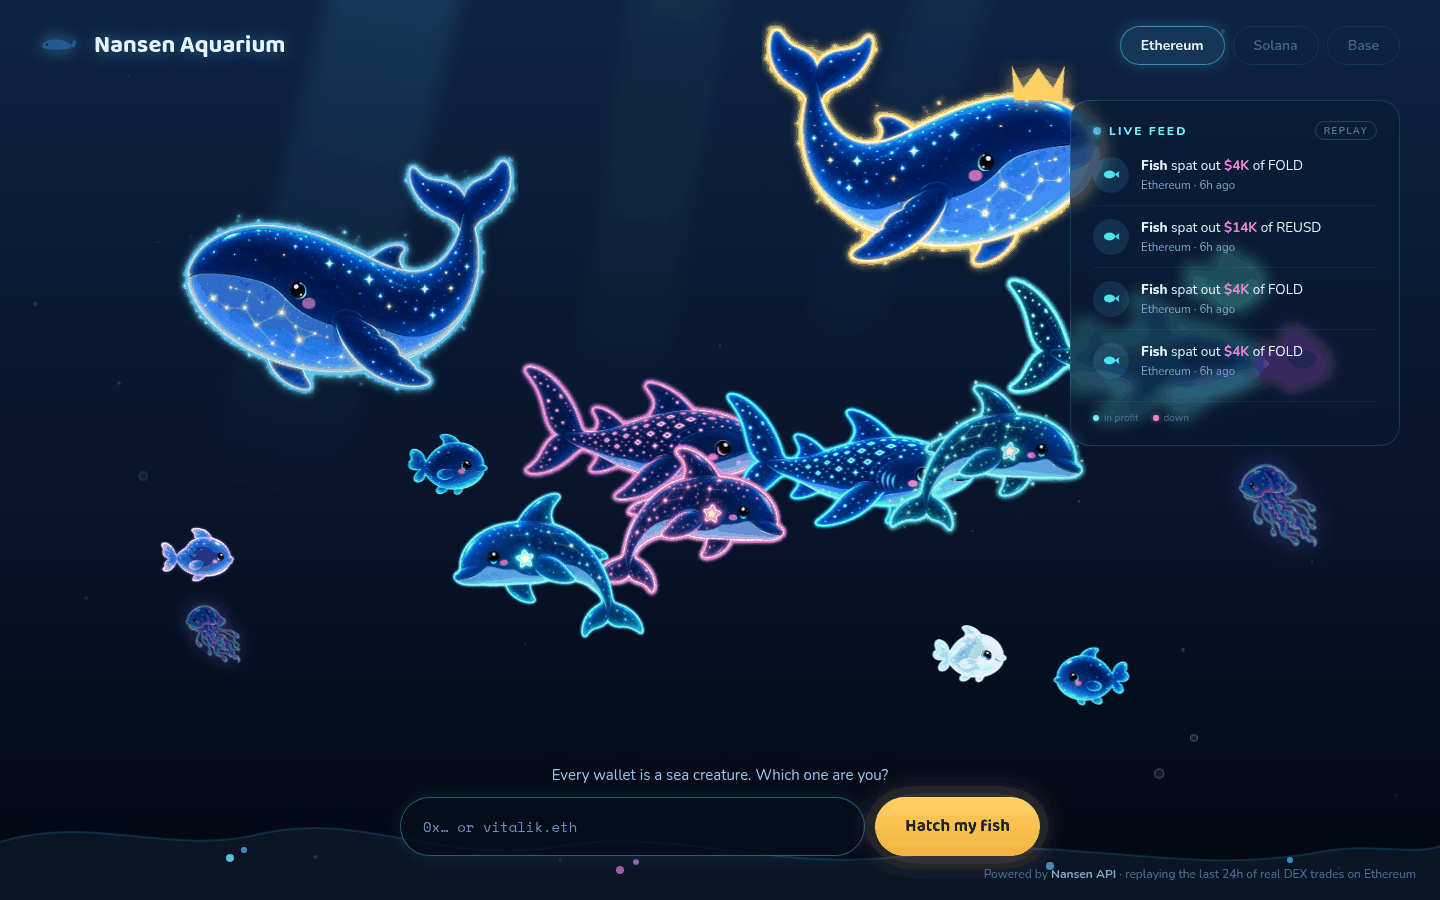
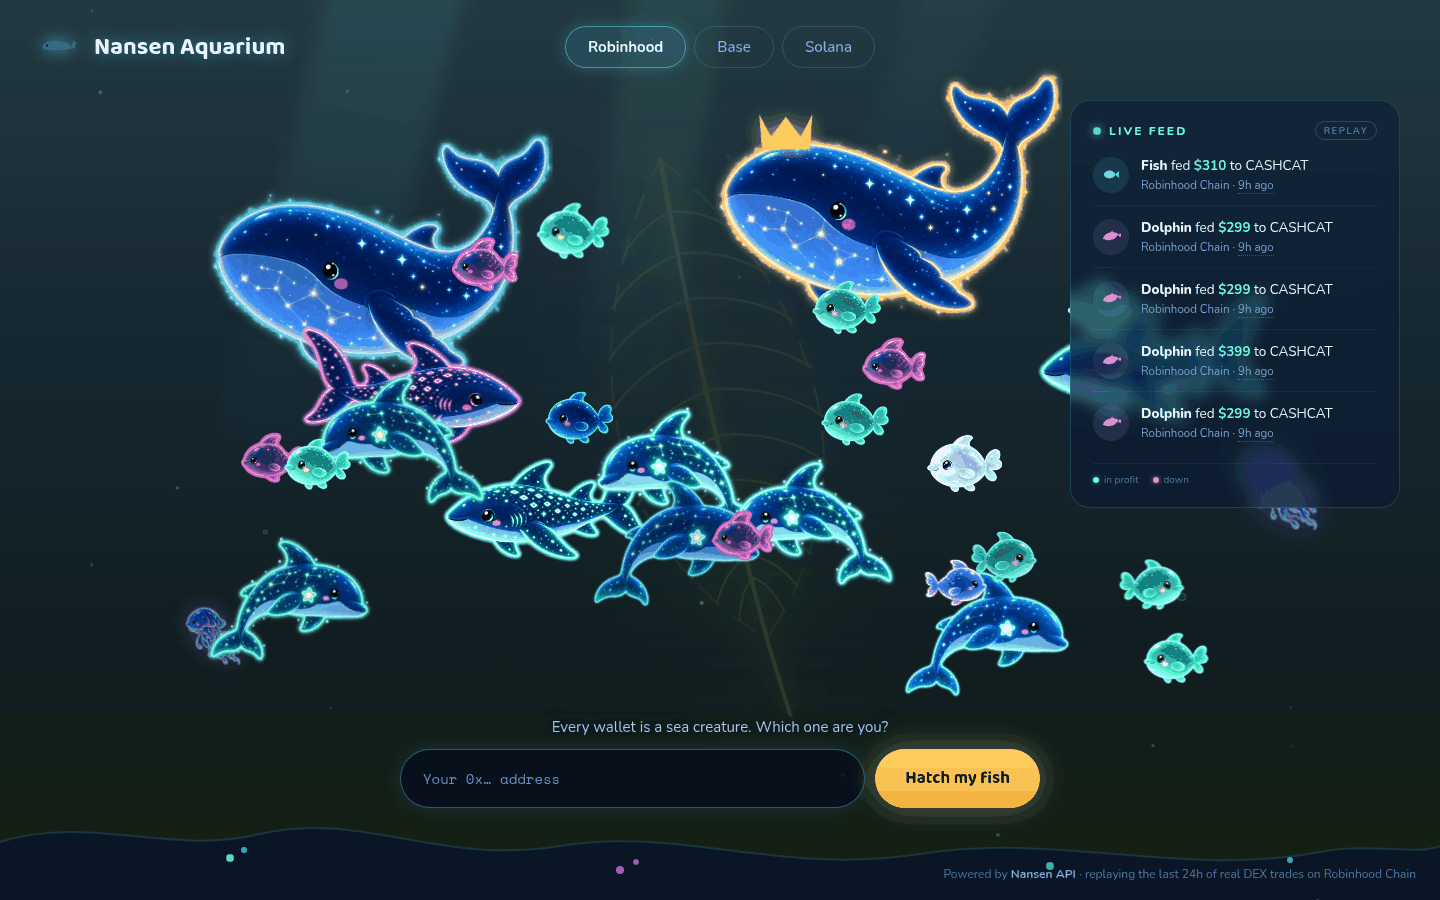
Let the README say the nursery is open
The README stopped at the tank: three tabs, a feed and a "coming soon"
button, which is where the project was two features ago. It now carries a
Hatch your own section — egg, the read, the reveal card, release into the
water — and says where the numbers behind it come from: one Cloudflare
Worker relaying one endpoint, with Turnstile, a per-minute throttle, a
per-IP daily cap, a global budget and a day-long cache in front of it. The
detail stays in worker/README.md; this only points at it.

Credits gained the visitor-facing half of the sum — one call, one credit,
cached for a day, capped at 1,000 a day overall and 20 a visitor — and the
compliance note now says the Worker's one hardcoded URL out loud. The
architecture tree grew hatch.js, config.js, worker/ and public/og/.

Screenshots retaken at the same 1440x900: the hero and the colourway shot
were still showing two chain tabs and the old bottom CTA, and the biography
modal had the same stale tank behind it. hatch-reveal.png is new — a whale,
The Deep Pocket, shot against the local mock Worker so no credits moved.

diff --git a/README.md b/README.md
@@ -40,6 +40,9 @@ and one `npm run fetch <chain>`.
   in order. Each event sends a coin arcing to the wallet that made it; wallets
   not currently in the tank swim past as anonymous guests. Every row's timestamp
   links to that transaction on its own chain's block explorer.
+- **Hatch your own.** Type a wallet address and it hatches into a creature built
+  from that wallet's own numbers — species, epithet, stat card — which you can
+  release into the tank and find still swimming on your next visit.
 - **Hand-painted sprites.** Fourteen WebP creatures across four species and three
   colourways, with the glow baked into the art and exposure driven by the data.
 - **No build step, no dependencies.** Plain ES modules, one stylesheet, a Node
@@ -64,6 +67,39 @@ Each visual property is a direct reading of one field:
 Creatures are identified by address only — the aquarium stores and shows no
 Nansen entity labels, so a wallet's species is earned purely by the size it
 moved in the tank today.
+
+## Hatch your own
+
+The tank is other people's wallets. The box beneath it is yours: type an address,
+an egg drifts down out of the dark, and the aquarium spends a few seconds
+"reading your on-chain soul" — that wallet's last 90 days of `pnl-summary`, the
+same enrichment the residents get. It hatches into a species, an epithet, and a
+card of your own stats.
+
+![A hatched whale: "You are a WHALE — The Deep Pocket", with its 90-day stat card](docs/screenshots/hatch-reveal.png)
+
+Release it and it joins the day's traders in the water, wearing a cracked shell
+so you can pick it out again; it is still there the next time you open that tank.
+Share turns the epithet into a post.
+
+The rules are the tank's own, read from a different angle: the size the wallet
+implies — realized PnL over the percent it represents, with trade count as a
+fallback — sets the species, the sign of that PnL sets the glow, and the same
+rules as the biography card pick the epithet. A wallet the profiler has no
+history for hatches as The Enigma rather than as a row of zeroes.
+
+An address is the only thing the browser sends. Everything with a key in it
+lives in [`worker/`](worker/): a Cloudflare Worker with one route, relaying one
+endpoint — `profiler/address/pnl-summary` — and rebuilding the answer from an
+explicit field list before it goes out. In front of that call sit a Turnstile
+check, six requests a minute per IP, a per-IP daily cap, a global daily budget
+that closes the nursery rather than overspending, and a 24-hour cache so hatching
+the same wallet twice costs nothing. [`worker/README.md`](worker/README.md) has
+the pipeline in cost order, the error table, and the deploy steps.
+
+Which endpoint the page talks to is one constant in
+[`src/config.js`](src/config.js). Set it to an empty string and the button falls
+back to a "nursery opens soon" card, so a Worker outage never reaches the tank.
 
 ## Quick start
 
@@ -111,6 +147,12 @@ tokens already recorded in `tank.json`, so it skips the screener and costs **5**
 The shipped schedule is four feed runs and one full run a day on each of the
 three chains — **168 credits a day**.
 
+Hatching is the one thing a visitor can spend: one `pnl-summary` call, one
+credit, cached in KV for 24 hours, so the same wallet hatched twice in a day is
+charged once. The key is shared with the schedule above, so the Worker caps the
+nursery at **1,000 calls a UTC day** overall and **20 a day per visitor** — both
+values live in `worker/wrangler.jsonc`.
+
 Trades under $100 are dropped as dust. The feed merges each fetch with the
 previous `feed.json` and trims to a rolling 24-hour window capped at 600 events,
 so a single call that returns a short slice of the day still leaves a full panel
@@ -140,6 +182,11 @@ Nothing here touches the `smart-money/*` or `address/labels` endpoints, no
 request sets `only_smart_money` or `include_smart_money_labels`, and no Nansen
 label is stored in `public/data/` or rendered in the UI.
 
+The hatchery Worker narrows that further: `profiler/address/pnl-summary` is the
+only endpoint it can reach — one hardcoded URL — and its response whitelist is
+the enforcement point, so no label could reach a visitor even if the upstream
+grew one.
+
 ## Architecture
 
 ```
@@ -148,18 +195,23 @@ styles.css              every visual token, animation and layout rule
 src/
   main.js               boot: load JSON, wire tank + feed + replay + modal
   chains.js             the chain registry — tab label, explorer, address shape
+  config.js             where the hatch box posts, and the Turnstile site key
   backdrop.js           per-chain water tint and motif, swapped on a tab change
   tank.js               creature bodies, steering, depth bands, hover chip
   sprites.js            species table, sprite variants, crown, inline SVG chrome
   feed.js               feed panel rows and USD formatting
   events.js             trade replay — coin arcs, guest walk-ons
   legend.js             "Legend of the Deep" biography modal and epithet rules
+  hatch.js              the egg: address in, creature out, released into the tank
 scripts/
   fetch.mjs             Nansen API → public/data/<chain>/*.json
   serve.mjs             static dev server, Node stdlib only
   prepare_sprites.py    art masters → baked WebP sprites
+worker/                 the hatchery — one Cloudflare Worker, its own README
+  src/                  routing, validation, Turnstile, limits, the Nansen call
 public/
   sprites/              14 WebP creatures
+  og/card.png           the link-preview card, shot from the tank in ?og=1 mode
   data/robinhood/       tank.json, feed.json
   data/base/            tank.json, feed.json
   data/solana/          tank.json, feed.json
